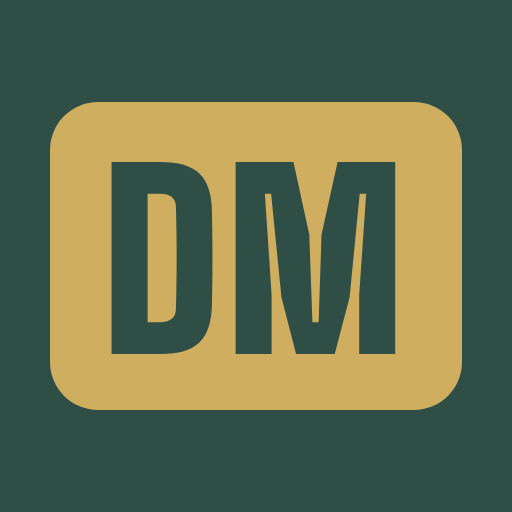
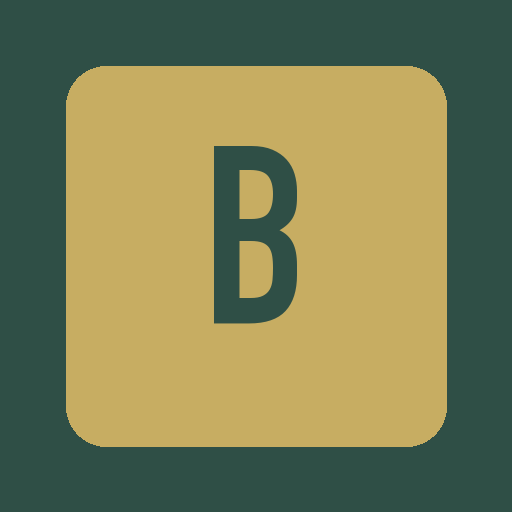
Rename the app to Body across branding, install metadata and exports

Changed region(s): [[0.2188, 0.2812, 0.7812, 0.7188], [0.0938, 0.125, 0.875, 0.875], [0.875, 0.2188, 0.9062, 0.7812]]

diff --git a/src/components/daylight/Shell.tsx b/src/components/daylight/Shell.tsx
@@ -23,11 +23,10 @@ const ITEMS: { id: AppView; label: string; icon: typeof SunMedium }[] = [
 ];
 /** Brand kit badge: gold plate, forest Big Shoulders 900 caps. `compact` = the DM app-icon form. */
 export function Logo({ size = 28, compact }: { size?: number; compact?: boolean }) {
-  if (compact) return <span aria-hidden="true" className="inline-grid place-items-center rounded-[6px] bg-gold font-display font-black text-kforest" style={{ height: size, minWidth: size * 1.3, fontSize: size * 0.62, lineHeight: 1, paddingTop: 2 }}>DM</span>;
+  if (compact) return <span aria-hidden="true" className="inline-grid place-items-center rounded-[6px] bg-gold font-display font-black text-kforest" style={{ height: size, minWidth: size * 1.3, fontSize: size * 0.62, lineHeight: 1, paddingTop: 2 }}>B</span>;
   return (
     <span aria-hidden="true" className="kit-badge" style={{ fontSize: size * 0.72 }}>
-      <b>DAYLIGHT</b>
-      <i>MATRIX</i>
+      <b>BODY</b>
     </span>
   );
 }
@@ -52,7 +51,7 @@ export function Shell({ children }: { children: ReactNode }) {
             type="button"
             onClick={() => go("today")}
             className="app-brand"
-            aria-label="Daylight Matrix home"
+            aria-label="Body home"
           >
             <Logo size={30} />
           </button>
@@ -120,7 +119,7 @@ export function Opening() {
         <div className="sun-bob mx-auto w-fit">
           <Logo size={64} />
         </div>
-        <p className="t-display mt-4">Daylight Matrix</p>
+        <p className="t-display mt-4">Body</p>
         <p className="t-caption mt-2 text-ink-soft">Opening your day.</p>
       </div>
     </div>

diff --git a/src/components/daylight/Settings.tsx b/src/components/daylight/Settings.tsx
@@ -67,7 +67,7 @@ export function Settings() {
         {standalone ? (
           <p className="mt-1 text-sm text-ink-soft">Running as an installed app.</p>
         ) : install ? (
-          <Button className="mt-2" onClick={() => install.prompt()}>Install Daylight Matrix</Button>
+          <Button className="mt-2" onClick={() => install.prompt()}>Install Body</Button>
         ) : (
           <p className="mt-1 text-sm text-ink-soft">iPhone: Share → Add to Home Screen. Android: browser menu → Install app / Add to Home screen.</p>
         )}
@@ -77,7 +77,7 @@ export function Settings() {
         <h2 className="t-title">Back up everything</h2>
         <p className="text-sm text-ink-soft">Plan versions, session logs, notes and their photos, joint checks, food, pantry and settings. {s.saveStatus}.</p>
         <div className="mt-3 flex flex-wrap gap-2">
-          <Button tone="gold" onClick={async () => downloadText(`daylight-matrix-backup-${localDate()}.json`, await withImages(s.exportJson(), noteImageIds(s.observations)))}>
+          <Button tone="gold" onClick={async () => downloadText(`body-backup-${localDate()}.json`, await withImages(s.exportJson(), noteImageIds(s.observations)))}>
             <Download className="size-4" /> Download backup
           </Button>
           <Button tone="outline" onClick={() => file.current?.click()}>

diff --git a/src/routes/__root.tsx b/src/routes/__root.tsx
@@ -3,7 +3,7 @@ import { AuthProvider } from "@/lib/auth/provider";
 import { PreviewHostBridge } from "@/components/preview-host-bridge";
 import appCss from "../styles.css?url";
 
-const APP_NAME = "Daylight Matrix";
+const APP_NAME = "Body";
 
 export const Route = createRootRoute({
   head: () => ({
@@ -15,7 +15,7 @@ export const Route = createRootRoute({
       { name: "theme-color", content: "#2f4f46" },
       { name: "mobile-web-app-capable", content: "yes" },
       { name: "apple-mobile-web-app-capable", content: "yes" },
-      { name: "apple-mobile-web-app-title", content: "Daylight" },
+      { name: "apple-mobile-web-app-title", content: "Body" },
       { name: "apple-mobile-web-app-status-bar-style", content: "black-translucent" },
     ],
     links: [

diff --git a/src/lib/daylight/store.ts b/src/lib/daylight/store.ts
@@ -1319,7 +1319,7 @@ export const useDaylight = create<Data & Actions>()(
         try {
           const parsed = JSON.parse(raw) as { daylight?: number; customNames?: Record<string, string>; data?: Record<string, unknown> };
           if (!parsed.daylight || !parsed.data || !Array.isArray(parsed.data.planVersions) || !parsed.data.planVersions.length) {
-            return "That file is not a Daylight backup.";
+            return "That file is not a Body backup.";
           }
           // Old (daylight: 1) backups have no schemaVersion, so they run through the same migration as old localStorage.
           const data = upgradeFoodWorkspace(migratePersisted(parsed.daylight >= 2 ? { schemaVersion: parsed.daylight, ...parsed.data } : parsed.data));

diff --git a/src/lib/daylight/digest.ts b/src/lib/daylight/digest.ts
@@ -85,7 +85,7 @@ export function buildDigest(input: DigestInput): string {
   const grouped = groupNotes(input.notes);
 
   L.push("# Brief for building my next training plan");
-  L.push(`Generated ${today} from my Daylight Matrix app. Everything below is my own log and notes. I am not asking for medical advice.`);
+  L.push(`Generated ${today} from my Body app. Everything below is my own log and notes. I am not asking for medical advice.`);
   L.push("");
   L.push("## Context");
   L.push(input.planContext.trim() || "(no extra context saved)");

diff --git a/docs/anatomy-library.md b/docs/anatomy-library.md
@@ -21,3 +21,7 @@ This is a selected atlas, not a complete inventory of human muscles, nerves or j
 ## Validation
 
 `npm run typecheck`, `npm run build`, `npm run build:pages`, and `npm run test:daylight` (76 tests). Atlas checks cover field completeness, source IDs, cross-links, sensory-only targets, and selected anatomical corrections. Browser checks cover Core Learn/Training, nerve search, a sensory-only page, source disclosures, link traversal and responsive layout. Review source and generated-site changes together before publishing.
+
+## App name
+
+The user chose **Body**. Display branding, document/install titles, export labels, icons and share card use that name. Existing repository names, storage keys, app identity, and backup schema remain compatible with saved data.

diff --git a/README.md b/README.md
@@ -1,4 +1,4 @@
-# Daylight Matrix
+# Body
 
 A personal daily app for food, training, and body awareness. Choose what to do, do it, notice what happened, then adjust.
 
